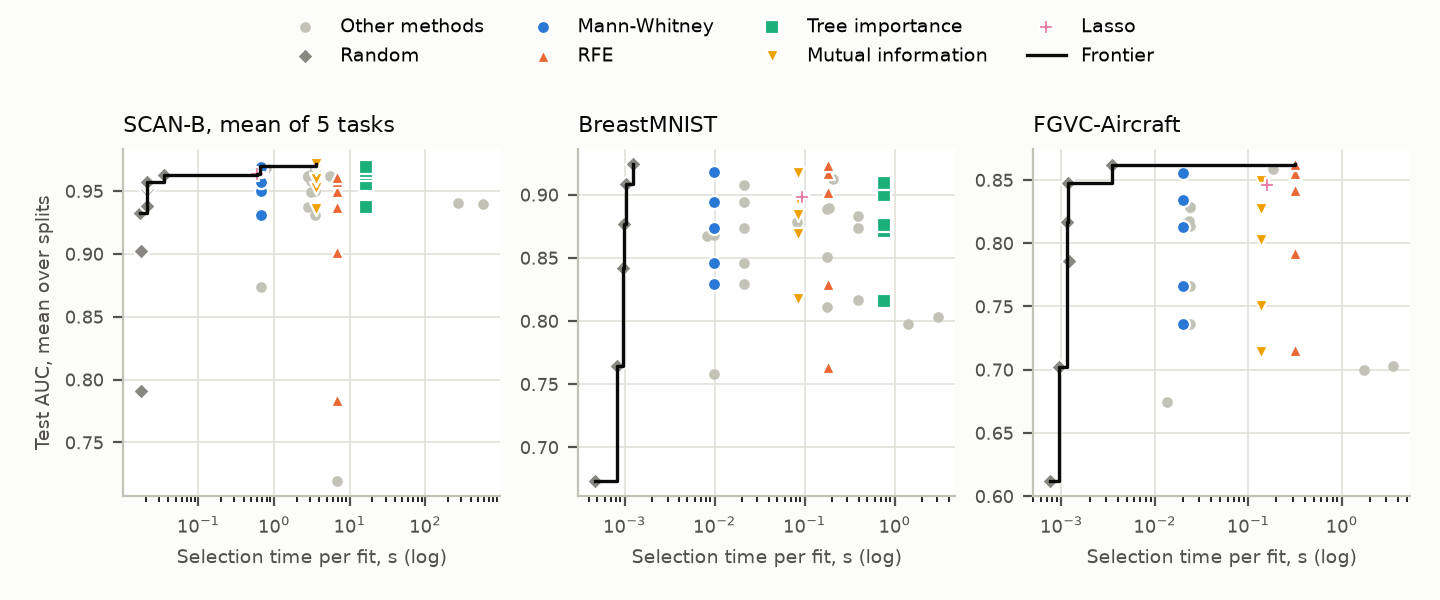
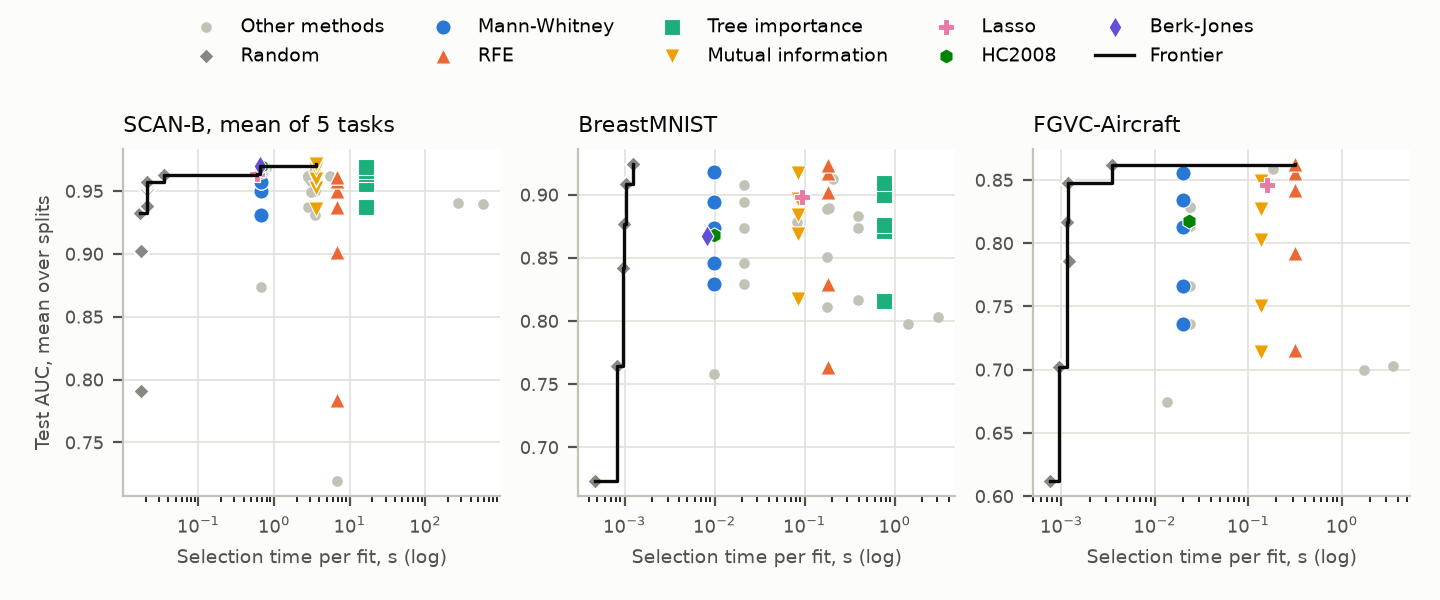
Final report: Summary on solvers; Figure 1 shows HC2008 and Berk-Jones
Exact solvers make selection repeatable, not faster. Figure 1 gives HC2008
and Berk-Jones their own colors, and a thinner ring keeps Lasso visible.

diff --git a/scripts/plot_final_frontier.py b/scripts/plot_final_frontier.py
@@ -3,7 +3,7 @@ Cost against quality, one panel per dataset: the final report's Figure 1.
 
 Reads the frontier tables that plot_frontier.py writes (one row per method
 and k: mean test ROC AUC and median selection time per fit) and runs
-nothing. Five methods have their own color, in the reference palette's
+nothing. Seven methods have their own color, in the reference palette's
 fixed order; random selection is gray diamonds; every other method is a
 small gray dot. The dark step line is the frontier: no point is both faster
 and better than a point on it.
@@ -23,7 +23,7 @@ matplotlib.use('Agg')
 import matplotlib.pyplot as plt
 import pandas as pd
 
-# The reference palette's first five categorical hues, in fixed order. The
+# The reference palette's first seven categorical hues, in fixed order. The
 # first three match plot_curves.py, so a method keeps its color across figures.
 SERIES = [
     ('MannWhitneySelector', 'Mann-Whitney', '#2a78d6', 'o'),
@@ -31,6 +31,8 @@ SERIES = [
     ('TreeImportanceSelector', 'Tree importance', '#1baf7a', 's'),
     ('MutualInfoSelector', 'Mutual information', '#eda100', 'v'),
     ('Lasso_ppdna', 'Lasso', '#e87ba4', 'P'),
+    ('HC2008', 'HC2008', '#008300', 'h'),
+    ('BerkJones', 'Berk-Jones', '#6250d6', 'd'),
 ]
 RANDOM = ('RandomSelector', 'Random', '#898781', 'D')
 INK = '#0b0b0b'
@@ -55,8 +57,9 @@ def draw(ax, title, table):
         rows = table[table.selector == selector]
         if rows.empty:
             continue
-        ax.scatter(rows.selection_time_s, rows.roc_auc, s=22, color=color, marker=marker,
-                   edgecolors='white', linewidths=0.8, label=name, zorder=4)
+        # A thin ring: a thick one hides the thin crossed markers (Lasso).
+        ax.scatter(rows.selection_time_s, rows.roc_auc, s=30, color=color, marker=marker,
+                   edgecolors='white', linewidths=0.4, label=name, zorder=4)
     front = table[table.on_frontier].sort_values('selection_time_s')
     ax.step(front.selection_time_s, front.roc_auc, where='post', color=INK,
             linewidth=1.2, label='Frontier', zorder=5)
@@ -86,7 +89,7 @@ def main():
     axes[0, 0].set_ylabel('Test AUC, mean over splits', fontsize=7, color=MUTED)
     # The first panel has every series; aircraft lacks tree importance.
     handles, labels = axes[0, 0].get_legend_handles_labels()
-    fig.legend(handles, labels, loc='upper center', ncol=4, frameon=False,
+    fig.legend(handles, labels, loc='upper center', ncol=5, frameon=False,
                fontsize=7, bbox_to_anchor=(0.5, 1.0))
     fig.tight_layout(rect=(0, 0, 1, 0.86), w_pad=0.6)
     fig.savefig(args.out, dpi=200, facecolor='#fcfcfb')

diff --git a/final_report/README.md b/final_report/README.md
@@ -14,8 +14,8 @@ that drop into scikit-learn pipelines, and a runner that compares them
 under one protocol from one configuration file: 16 random splits,
 selection inside each split, the number of features chosen on validation
 sets, a random control at every number of features, and paired tests
-corrected for the overlap between splits. Exact solvers and GPU paths make
-the slow methods faster.
+corrected for the overlap between splits. GPU paths make the slow methods
+faster; exact solvers make them repeatable.
 
 **Data.** Breast cancer gene expression (SCAN-B: 2,976 patients, 28,541
 genes, five PAM50 subtype tasks), ResNet-50 embeddings of breast
